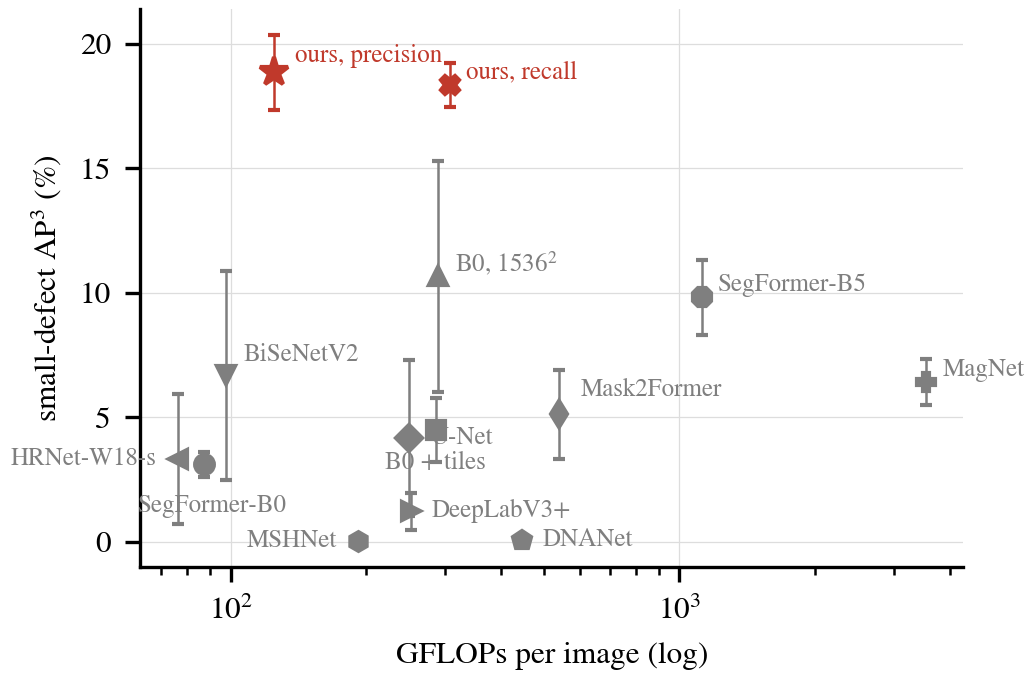
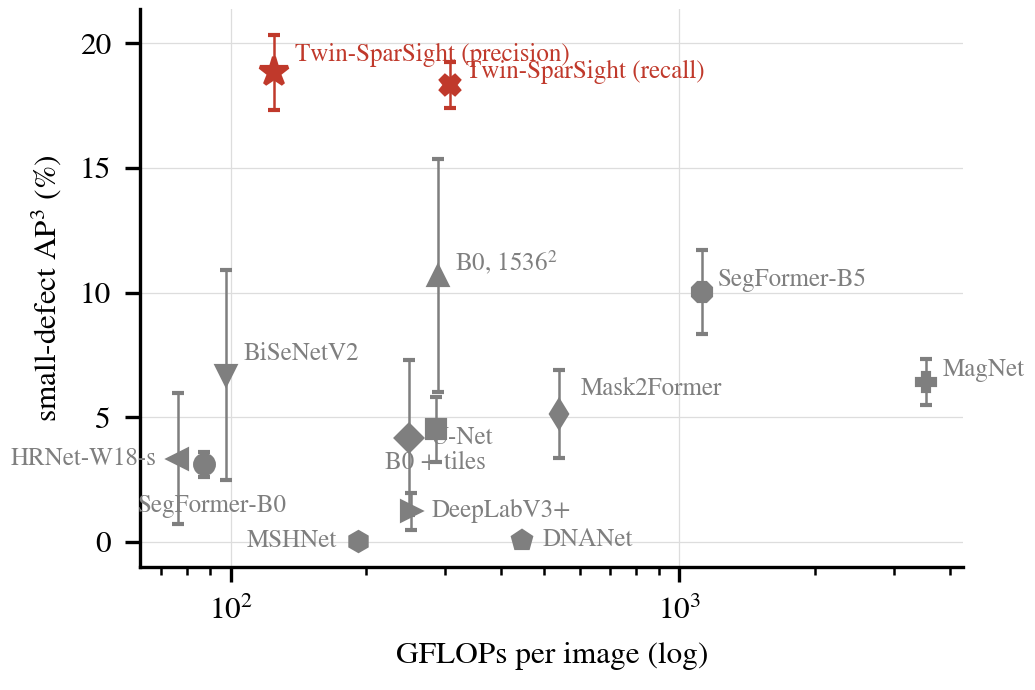
README list formatting; figures with the final names

diff --git a/tools/figures/fig1_framework.py b/tools/figures/fig1_framework.py
@@ -1,7 +1,7 @@
-"""Fig. 1: overview of the method with real data .
+"""Fig. 1: overview of the method with real data (final method, 2026-10-05).
 
   python tools/figures/fig1_data.py --step train|replay|infer     # once: real crops / maps -> fig1_data/*.npz
-  python tools/figures/fig1_framework.py --out outputs/paper/figures
+  python tools/figures/fig1_framework.py --out paper/figures
 
 (a) Training on two views: the same image enters as a downscaled whole view (letterbox 1024^2) and as native
     384^2 crops; ONE shared MiT-B0 segmenter (encoder stages s1-s4, all-MLP decoder, main head). Size-aware
@@ -122,7 +122,7 @@ def draw(out_dir):
     ax.axis("off")
 
     # ======================================================================= (a) training on two views
-    panel(ax, 0.03, 2.30, 4.62, 2.12, "(a) Training one lightweight segmenter on two views")
+    panel(ax, 0.03, 2.30, 4.62, 2.12, "(a) Twin-View SparSight Training: one lightweight segmenter, two views")
     whole = overlay(T["whole"], T["whole_g"] > 0, GT, 0.9)
     h = img(ax, whole, 0.13, 3.38, 0.95, ec=LOW, lw=1.0)
     ax.text(0.13, 3.38 + h + 0.03, "whole image, letterbox $1024^2$", fontsize=5.6, color=LOW, va="bottom")
@@ -177,7 +177,7 @@ def draw(out_dir):
             va="center", color=INK)
 
     # ======================================================================= (b) confusion replay
-    panel(ax, 4.72, 2.30, 2.41, 2.12, "(b) Replaying the model's own confusions")
+    panel(ax, 4.72, 2.30, 2.41, 2.12, "(b) Sparse Confusion Replay")
     rw = R["whole"]
     rx, ry, rwid = 4.82, 3.10, 1.12
     rh = img(ax, rw, rx, ry, rwid)
@@ -199,12 +199,12 @@ def draw(out_dir):
             fontsize=5.0, color=SIZE, va="center", linespacing=1.0)
     arrow(ax, (rx + rwid + 0.02, ry + rh * 0.75), (cx0 - 0.03, cy0 + cs / 2), c=REP)
     rbox(ax, 5.30, 2.40, 1.78, 0.46, fc="white", ec=REP, lw=0.8)
-    ax.text(6.19, 2.63, "refine the same network for 20 epochs;\n1 of 4 batches is a replay batch\n"
+    ax.text(6.19, 2.63, "refine the same network for 20 epochs;\nreplay batch after every 3rd whole-image batch\n"
             "(50% FP crops, 50% small-defect crops)", ha="center", va="center", fontsize=5.0, color=INK, linespacing=1.05)
     arrow(ax, (6.30, cy0 - 0.52), (6.30, 2.87), c=REP)
 
     # ======================================================================= (c) two-track inference
-    panel(ax, 0.03, 0.26, 7.10, 1.98, "(c) Two-track inference with the same network")
+    panel(ax, 0.03, 0.26, 7.10, 1.98, "(c) Twin-Track SparSight Inference with the same network")
     im_ = I["img"]
     iH, iW = im_.shape[:2]
     ix, iy, iw = 0.13, 1.28, 1.45
@@ -215,7 +215,7 @@ def draw(out_dir):
     xe = net(ax, 1.98, ly, 0.5, LOW, label=False, stages=False)
     arrow(ax, (ix + iw + 0.02, ly), (1.96, ly), c=LOW)
     ax.text(1.88, ly + 0.25, "$\\downarrow1024^2$", fontsize=5.4, color=LOW, ha="center")
-    ax.text((1.98 + xe) / 2, ly - 0.24, "track L", fontsize=5.6, color=LOW, ha="center", va="top")
+    ax.text((1.98 + xe) / 2, ly - 0.24, "Global Sight (L)", fontsize=5.6, color=LOW, ha="center", va="top")
     px, pw = xe + 0.18, 1.45
     ph = img(ax, blend(im_, I["L"]), px, iy, pw)
     contour(ax, I["M"] > 0, px, iy, pw, ph, c="#58c4dd", lw=0.5)
@@ -238,7 +238,7 @@ def draw(out_dir):
     arrow(ax, (cb_x + b / 2, cb_y - b / 2), (zx0 - 0.02, iy + 0.12), c=NAT, rad=0.3)
     xe2 = net(ax, zx0 + zs + 0.14, iy + zs / 2 - 0.06, 0.5, NAT, label=False, stages=False)
     arrow(ax, (zx0 + zs + 0.01, iy + zs / 2 - 0.06), (zx0 + zs + 0.12, iy + zs / 2 - 0.06), c=NAT)
-    ax.text((zx0 + zs + 0.14 + xe2) / 2, iy - 0.06 + zs / 2 - 0.30, "track S", fontsize=5.6, color=NAT, ha="center",
+    ax.text((zx0 + zs + 0.14 + xe2) / 2, iy - 0.06 + zs / 2 - 0.30, "Native Sight (S)", fontsize=5.6, color=NAT, ha="center",
             va="top")
     cx1 = xe2 + 0.18
     img(ax, blend(zi, I["zoom_L"]), cx1, iy - 0.06, zs, zs, ec=LOW, lw=0.9)
@@ -252,14 +252,14 @@ def draw(out_dir):
     oy = 0.33
     rbox(ax, 0.13, oy, 3.45, 0.60, fc="white", ec=NAT, lw=0.8)
     ax.text(0.20, oy + 0.55, "Precision mode", fontsize=6.0, weight="bold", color=NAT, va="top")
-    ax.text(0.20, oy + 0.40, "L on the whole image; S only on the proposed crops; merge\n"
-            "$p=\\max(p_L,\\ p_S\\,(1_M+0.5\\cdot 1_{\\bar{M}}))$: native evidence without low-res support is damped.\n"
-            "3.6 native crops per image $\\Rightarrow$ 139 GFLOPs (1.6$\\times$ a single pass)",
+    ax.text(0.20, oy + 0.40, "Global Sight (L) on the whole image; Native Sight (S) only on the proposed crops; merge\n"
+            "$p=\\max(p_L,\\ p_S\\,(1_M+0.5\\cdot 1_{\\bar{M}}))$: native evidence without global support is damped.\n"
+            "3.7 native crops per image $\\Rightarrow$ 125 GFLOPs (1.4$\\times$ a single pass)",
             fontsize=5.3, va="top", linespacing=1.25)
     rbox(ax, 3.68, oy, 3.35, 0.60, fc="white", ec=MUTED, lw=0.8)
     ax.text(3.75, oy + 0.55, "Recall mode", fontsize=6.0, weight="bold", color=INK, va="top")
-    ax.text(3.75, oy + 0.38, "S on all native $384^2$ tiles; maximum with L.\n"
-            "26 crops per image $\\Rightarrow$ 429 GFLOPs; highest small-defect AUPRO", fontsize=5.3, va="top",
+    ax.text(3.75, oy + 0.38, "Native Sight (S) on all $384^2$ tiles; maximum with Global Sight (L).\n"
+            "24 crops per image $\\Rightarrow$ 308 GFLOPs; highest small-defect AUPRO", fontsize=5.3, va="top",
             linespacing=1.2)
     gx, gw = 6.05, 0.90
     gh = gw * iH / iW

diff --git a/README.md b/README.md
@@ -16,9 +16,10 @@ finds them, together with many false alarms that the wider context would have ru
    the BCE term of the main head. Stage heads on the four encoder stages are trained at the same time (the shallow
    two on small defects only) and are **discarded at inference**: the deployed network is the plain MiT-B0
    segmenter.
-**Sparse Confusion Replay** (`configs/<dataset>/ours.yaml`)
-3. The trained model segments its own training images at native resolution; its false
-   positives (print, vents, edges) and small defects are replayed in a 20-epoch refinement.
+
+**Sparse Confusion Replay** (`configs/<dataset>/ours.yaml`): the trained model segments its own training images at
+native resolution; its false positives (print, vents, edges) and small defects are replayed in a 20-epoch refinement.
+
 
 **Twin-Track SparSight Inference** (`tools/evaluate_zoom.py`): a *Global Sight Track* (L) segments the downscaled
 whole image and a *Native Sight Track* (S), the same network, segments native-resolution 384x384 crops.
